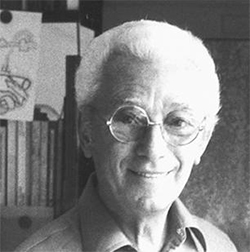
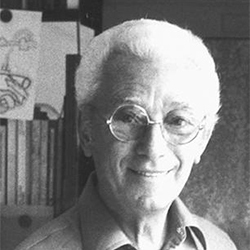
fix Bruno Munari author picture size

diff --git a/docs/assets/css/styles.css b/docs/assets/css/styles.css
@@ -1,3 +1,3 @@
 @charset "UTF-8";
 
-/*! normalize.css v6.0.0 | MIT License | github.com/necolas/normalize.css */html{line-height:1.15;-ms-text-size-adjust:100%;-webkit-text-size-adjust:100%}article,aside,footer,header,nav,section{display:block}h1{font-size:2em;margin:.67em 0}figcaption,figure,main{display:block}figure{margin:1em 40px}hr{-webkit-box-sizing:content-box;box-sizing:content-box;height:0;overflow:visible}pre{font-family:monospace,monospace;font-size:1em}a{background-color:transparent;-webkit-text-decoration-skip:objects}abbr[title]{border-bottom:none;text-decoration:underline;text-decoration:underline dotted}b,strong{font-weight:inherit;font-weight:bolder}code,kbd,samp{font-family:monospace,monospace;font-size:1em}dfn{font-style:italic}mark{background-color:#ff0;color:#000}small{font-size:80%}sub,sup{font-size:75%;line-height:0;position:relative;vertical-align:baseline}sub{bottom:-.25em}sup{top:-.5em}audio,video{display:inline-block}audio:not([controls]){display:none;height:0}img{border-style:none}svg:not(:root){overflow:hidden}button,input,optgroup,select,textarea{margin:0}button,input{overflow:visible}button,select{text-transform:none}[type=reset],[type=submit],button,html [type=button]{-webkit-appearance:button}[type=button]::-moz-focus-inner,[type=reset]::-moz-focus-inner,[type=submit]::-moz-focus-inner,button::-moz-focus-inner{border-style:none;padding:0}[type=button]:-moz-focusring,[type=reset]:-moz-focusring,[type=submit]:-moz-focusring,button:-moz-focusring{outline:1px dotted ButtonText}legend{-webkit-box-sizing:border-box;box-sizing:border-box;color:inherit;display:table;max-width:100%;padding:0;white-space:normal}progress{display:inline-block;vertical-align:baseline}textarea{overflow:auto}[type=checkbox],[type=radio]{-webkit-box-sizing:border-box;box-sizing:border-box;padding:0}[type=number]::-webkit-inner-spin-button,[type=number]::-webkit-outer-spin-button{height:auto}[type=search]{-webkit-appearance:textfield;outline-offset:-2px}[type=search]::-webkit-search-cancel-button,[type=search]::-webkit-search-decoration{-webkit-appearance:none}::-webkit-file-upload-button{-webkit-appearance:button;font:inherit}details,menu{display:block}summary{display:list-item}canvas{display:inline-block}[hidden],template{display:none}html{font-size:75%}body{background-color:#e1e0dd;color:#444;font-size:1.15rem;font-weight:200;line-height:1.5;margin:0}body,h1,h2,h3,h4{font-family:Montserrat,Helvetica Neue,Segoe UI,Verdana,sans-serif}h1,h2,h3,h4{color:#4d4d4d;font-weight:300;line-height:1.25}h1{margin:0}h1,h2{font-size:2.04342rem}h3{font-size:1.53295rem;margin:0;padding:0}a{color:#f45844;-webkit-transition:color .35s cubic-bezier(.25,.46,.45,.94);transition:color .35s cubic-bezier(.25,.46,.45,.94)}a:hover{color:#b74233}img{display:inline-block}p{margin:0}p+p{margin-top:.75rem}strong{font-weight:300}h1 strong,h2 strong,h3 strong,h4 strong{font-weight:400}.ta-center{text-align:center}.fw-bold{font-weight:300}h1.fw-bold,h2.fw-bold,h3.fw-bold,h4.fw-bold{font-weight:400}.fs-small{font-size:.86272rem}.fs-large{font-size:1.53295rem}.text-brand{color:#f45844}.bg-secondary{background-color:#fff}.uppercase{text-transform:uppercase;letter-spacing:.05rem}.margin-top-1{margin-top:.75rem}.margin-top-2{margin-top:1.5rem}.margin-top-3{margin-top:2.25rem}.margin-top-4{margin-top:3rem}.margin-top-5{margin-top:3.75rem}.margin-top-6{margin-top:4.5rem}.margin-bottom-1{margin-bottom:.75rem}.margin-bottom-2{margin-bottom:1.5rem}.margin-bottom-3{margin-bottom:2.25rem}.margin-bottom-4{margin-bottom:3rem}.margin-bottom-5{margin-bottom:3.75rem}.margin-bottom-6{margin-bottom:4.5rem}.visually-hidden{margin:-1px;padding:0;width:1px;height:1px;overflow:hidden;clip:rect(0 0 0 0);clip:rect(0,0,0,0);position:absolute}.wrap{max-width:56rem}.wrap,.wrap-small{padding:0 .375rem;margin-left:auto;margin-right:auto}.wrap-small{max-width:36rem}.wrap-large{padding:0 .375rem;max-width:64rem;margin-left:auto;margin-right:auto}.slick-slider{-webkit-box-sizing:border-box;box-sizing:border-box;-webkit-touch-callout:none;-webkit-user-select:none;-moz-user-select:none;-ms-user-select:none;user-select:none;-ms-touch-action:pan-y;touch-action:pan-y;-webkit-tap-highlight-color:transparent}.slick-list,.slick-slider{position:relative;display:block}.slick-list{overflow:hidden;margin:0;padding:0}.slick-list:focus{outline:none}.slick-list.dragging{cursor:pointer;cursor:hand}.slick-slider .slick-list,.slick-slider .slick-track{-webkit-transform:translateZ(0);-ms-transform:translateZ(0);transform:translateZ(0)}.slick-track{position:relative;left:0;top:0;display:block}.slick-track:after,.slick-track:before{content:"";display:table}.slick-track:after{clear:both}.slick-loading .slick-track{visibility:hidden}.slick-slide{float:left;height:100%;min-height:1px;display:none}[dir=rtl] .slick-slide{float:right}.slick-slide img{display:block}.slick-slide.slick-loading img{display:none}.slick-slide.dragging img{pointer-events:none}.slick-initialized .slick-slide{display:block}.slick-loading .slick-slide{visibility:hidden}.slick-vertical .slick-slide{display:block;height:auto;border:1px solid transparent}.slick-arrow.slick-hidden{display:none}.slick-loading .slick-list{background:#fff url(../img/ajax-loader.gif) 50% no-repeat}@font-face{font-family:slick;src:url(fonts/slick.eot);src:url(fonts/slick.eot?#iefix) format("embedded-opentype"),url(fonts/slick.woff) format("woff"),url(fonts/slick.ttf) format("truetype"),url(fonts/slick.svg#slick) format("svg");font-weight:400;font-style:normal}.slick-next,.slick-prev{position:absolute;display:block;height:20px;width:20px;line-height:0;font-size:0;cursor:pointer;top:50%;-webkit-transform:translateY(-50%);-ms-transform:translateY(-50%);transform:translateY(-50%);padding:0;border:none}.slick-next,.slick-next:focus,.slick-next:hover,.slick-prev,.slick-prev:focus,.slick-prev:hover{background:transparent;color:transparent;outline:none}.slick-next:focus:before,.slick-next:hover:before,.slick-prev:focus:before,.slick-prev:hover:before{opacity:1}.slick-next.slick-disabled:before,.slick-prev.slick-disabled:before{opacity:.25}.slick-next:before,.slick-prev:before{font-family:slick;font-size:20px;line-height:1;color:#fff;opacity:.75;-webkit-font-smoothing:antialiased;-moz-osx-font-smoothing:grayscale}.slick-prev{left:-25px}[dir=rtl] .slick-prev{left:auto;right:-25px}.slick-prev:before{content:"←"}[dir=rtl] .slick-prev:before{content:"→"}.slick-next{right:-25px}[dir=rtl] .slick-next{left:-25px;right:auto}.slick-next:before{content:"→"}[dir=rtl] .slick-next:before{content:"←"}.slick-dotted.slick-slider{margin-bottom:30px}.slick-dots{position:absolute;bottom:-25px;list-style:none;display:block;text-align:center;padding:0;margin:0;width:100%}.slick-dots li{position:relative;display:inline-block;margin:0 5px;padding:0}.slick-dots li,.slick-dots li button{height:20px;width:20px;cursor:pointer}.slick-dots li button{border:0;background:transparent;display:block;outline:none;line-height:0;font-size:0;color:transparent;padding:5px}.slick-dots li button:focus,.slick-dots li button:hover{outline:none}.slick-dots li button:focus:before,.slick-dots li button:hover:before{opacity:1}.slick-dots li button:before{position:absolute;top:0;left:0;content:"•";width:20px;height:20px;font-family:slick;font-size:6px;line-height:20px;text-align:center;color:#000;opacity:.25;-webkit-font-smoothing:antialiased;-moz-osx-font-smoothing:grayscale}.slick-dots li.slick-active button:before{color:#000;opacity:.75}.header{text-align:center;padding:3rem .75rem}.header .intro{margin-top:.75rem}.logo svg{width:128px;vertical-align:middle}.logo svg path{stroke:#f45844;stroke-width:6}.intro .intro__title{font-weight:400}.intro .intro__headline{font-size:1.53295rem;margin-top:.75rem}.slider-author:after{content:"";position:absolute;top:0;bottom:0;left:0;right:0;pointer-events:none;background-image:-webkit-gradient(linear,right top,left top,color-stop(85%,hsla(45,6%,87%,0)),to(#e1e0dd)),-webkit-gradient(linear,left top,right top,color-stop(85%,hsla(45,6%,87%,0)),to(#e1e0dd));background-image:-webkit-linear-gradient(right,hsla(45,6%,87%,0) 85%,#e1e0dd),-webkit-linear-gradient(left,hsla(45,6%,87%,0) 85%,#e1e0dd);background-image:linear-gradient(270deg,hsla(45,6%,87%,0) 85%,#e1e0dd),linear-gradient(90deg,hsla(45,6%,87%,0) 85%,#e1e0dd)}.slider-author__cell{width:92px}.slider-author__cell:focus{outline:0}.author{background-color:#ddd;cursor:pointer;opacity:.35;text-align:center;-webkit-transition:all .75s cubic-bezier(.25,.46,.45,.94);transition:all .75s cubic-bezier(.25,.46,.45,.94)}.author__image img{margin:0;max-width:100%;width:1005;vertical-align:middle}.slick-current .author{background-color:#fff;opacity:1;-webkit-transition:all .75s cubic-bezier(.25,.46,.45,.94);transition:all .75s cubic-bezier(.25,.46,.45,.94)}.slider-quote__cell{width:100%;height:100%;margin:0;padding:0}.slider-quote__cell:focus{outline:0}.quote{text-align:center;padding:3rem .1875rem}.quote__author{font-size:2.04342rem;margin-bottom:0}.quote__text{line-height:1.75;font-style:italic;text-align:center;font-size:1.53295rem;margin-top:1.5rem}.quote__text:before{content:"\201c"}.quote__text:after{content:"\201d"}.quote__book a{color:#999;text-decoration:none}.manifesto .card{counter-increment:a;margin-bottom:1.125rem;-webkit-transition:all .55s ease-in;transition:all .55s ease-in}.manifesto .card .card__header{text-align:left}.manifesto .card .card__header,.manifesto .card .card__header:before{-webkit-transition:all .55s cubic-bezier(.25,.46,.45,.94);transition:all .55s cubic-bezier(.25,.46,.45,.94)}.manifesto .card .card__header:before{content:counter(a);text-align:center;font-size:2.04342rem;color:#b3b3b3;margin-right:.75rem}.manifesto .card .card__title{color:#737373;-webkit-transition:all .55s cubic-bezier(.25,.46,.45,.94);transition:all .55s cubic-bezier(.25,.46,.45,.94)}.manifesto .card__header{-webkit-box-align:center;-webkit-align-items:center;-ms-flex-align:center;align-items:center;display:-webkit-box;display:-webkit-flex;display:-ms-flexbox;display:flex;-webkit-flex-wrap:wrap;-ms-flex-wrap:wrap;flex-wrap:wrap}.manifesto .card__header:before{width:8.33333%}.manifesto .card__header .card__title{width:83.33333%}.manifesto .card__header .card__toggle{width:8.33333%}.footer{padding:3rem 1.5rem}@media (min-width:768px){html{font-size:85%}.logo svg{width:172px}}@media (min-width:1024px){html{font-size:100%}.slider-author__cell{width:192px}}
+/*! normalize.css v6.0.0 | MIT License | github.com/necolas/normalize.css */html{line-height:1.15;-ms-text-size-adjust:100%;-webkit-text-size-adjust:100%}article,aside,footer,header,nav,section{display:block}h1{font-size:2em;margin:.67em 0}figcaption,figure,main{display:block}figure{margin:1em 40px}hr{-webkit-box-sizing:content-box;box-sizing:content-box;height:0;overflow:visible}pre{font-family:monospace,monospace;font-size:1em}a{background-color:transparent;-webkit-text-decoration-skip:objects}abbr[title]{border-bottom:none;text-decoration:underline;text-decoration:underline dotted}b,strong{font-weight:inherit;font-weight:bolder}code,kbd,samp{font-family:monospace,monospace;font-size:1em}dfn{font-style:italic}mark{background-color:#ff0;color:#000}small{font-size:80%}sub,sup{font-size:75%;line-height:0;position:relative;vertical-align:baseline}sub{bottom:-.25em}sup{top:-.5em}audio,video{display:inline-block}audio:not([controls]){display:none;height:0}img{border-style:none}svg:not(:root){overflow:hidden}button,input,optgroup,select,textarea{margin:0}button,input{overflow:visible}button,select{text-transform:none}[type=reset],[type=submit],button,html [type=button]{-webkit-appearance:button}[type=button]::-moz-focus-inner,[type=reset]::-moz-focus-inner,[type=submit]::-moz-focus-inner,button::-moz-focus-inner{border-style:none;padding:0}[type=button]:-moz-focusring,[type=reset]:-moz-focusring,[type=submit]:-moz-focusring,button:-moz-focusring{outline:1px dotted ButtonText}legend{-webkit-box-sizing:border-box;box-sizing:border-box;color:inherit;display:table;max-width:100%;padding:0;white-space:normal}progress{display:inline-block;vertical-align:baseline}textarea{overflow:auto}[type=checkbox],[type=radio]{-webkit-box-sizing:border-box;box-sizing:border-box;padding:0}[type=number]::-webkit-inner-spin-button,[type=number]::-webkit-outer-spin-button{height:auto}[type=search]{-webkit-appearance:textfield;outline-offset:-2px}[type=search]::-webkit-search-cancel-button,[type=search]::-webkit-search-decoration{-webkit-appearance:none}::-webkit-file-upload-button{-webkit-appearance:button;font:inherit}details,menu{display:block}summary{display:list-item}canvas{display:inline-block}[hidden],template{display:none}html{font-size:75%}body{background-color:#e1e0dd;color:#444;font-size:1.15rem;font-weight:200;line-height:1.5;margin:0}body,h1,h2,h3,h4{font-family:Montserrat,Helvetica Neue,Segoe UI,Verdana,sans-serif}h1,h2,h3,h4{color:#4d4d4d;font-weight:300;line-height:1.25}h1{margin:0}h1,h2{font-size:2.04342rem}h3{font-size:1.53295rem;margin:0;padding:0}a{color:#f45844;-webkit-transition:color .35s cubic-bezier(.25,.46,.45,.94);transition:color .35s cubic-bezier(.25,.46,.45,.94)}a:hover{color:#b74233}img{display:inline-block}p{margin:0}p+p{margin-top:.75rem}strong{font-weight:300}h1 strong,h2 strong,h3 strong,h4 strong{font-weight:400}.ta-center{text-align:center}.fw-bold{font-weight:300}h1.fw-bold,h2.fw-bold,h3.fw-bold,h4.fw-bold{font-weight:400}.fs-small{font-size:.86272rem}.fs-large{font-size:1.53295rem}.text-brand{color:#f45844}.bg-secondary{background-color:#fff}.uppercase{text-transform:uppercase;letter-spacing:.05rem}.margin-top-1{margin-top:.75rem}.margin-top-2{margin-top:1.5rem}.margin-top-3{margin-top:2.25rem}.margin-top-4{margin-top:3rem}.margin-top-5{margin-top:3.75rem}.margin-top-6{margin-top:4.5rem}.margin-bottom-1{margin-bottom:.75rem}.margin-bottom-2{margin-bottom:1.5rem}.margin-bottom-3{margin-bottom:2.25rem}.margin-bottom-4{margin-bottom:3rem}.margin-bottom-5{margin-bottom:3.75rem}.margin-bottom-6{margin-bottom:4.5rem}.visually-hidden{margin:-1px;padding:0;width:1px;height:1px;overflow:hidden;clip:rect(0 0 0 0);clip:rect(0,0,0,0);position:absolute}.wrap{max-width:56rem}.wrap,.wrap-small{padding:0 .375rem;margin-left:auto;margin-right:auto}.wrap-small{max-width:36rem}.wrap-large{padding:0 .375rem;max-width:64rem;margin-left:auto;margin-right:auto}.slick-slider{-webkit-box-sizing:border-box;box-sizing:border-box;-webkit-touch-callout:none;-webkit-user-select:none;-moz-user-select:none;-ms-user-select:none;user-select:none;-ms-touch-action:pan-y;touch-action:pan-y;-webkit-tap-highlight-color:transparent}.slick-list,.slick-slider{position:relative;display:block}.slick-list{overflow:hidden;margin:0;padding:0}.slick-list:focus{outline:none}.slick-list.dragging{cursor:pointer;cursor:hand}.slick-slider .slick-list,.slick-slider .slick-track{-webkit-transform:translateZ(0);-ms-transform:translateZ(0);transform:translateZ(0)}.slick-track{position:relative;left:0;top:0;display:block}.slick-track:after,.slick-track:before{content:"";display:table}.slick-track:after{clear:both}.slick-loading .slick-track{visibility:hidden}.slick-slide{float:left;height:100%;min-height:1px;display:none}[dir=rtl] .slick-slide{float:right}.slick-slide img{display:block}.slick-slide.slick-loading img{display:none}.slick-slide.dragging img{pointer-events:none}.slick-initialized .slick-slide{display:block}.slick-loading .slick-slide{visibility:hidden}.slick-vertical .slick-slide{display:block;height:auto;border:1px solid transparent}.slick-arrow.slick-hidden{display:none}.slick-loading .slick-list{background:#fff url(../img/ajax-loader.gif) 50% no-repeat}@font-face{font-family:slick;src:url(fonts/slick.eot);src:url(fonts/slick.eot?#iefix) format("embedded-opentype"),url(fonts/slick.woff) format("woff"),url(fonts/slick.ttf) format("truetype"),url(fonts/slick.svg#slick) format("svg");font-weight:400;font-style:normal}.slick-next,.slick-prev{position:absolute;display:block;height:20px;width:20px;line-height:0;font-size:0;cursor:pointer;top:50%;-webkit-transform:translateY(-50%);-ms-transform:translateY(-50%);transform:translateY(-50%);padding:0;border:none}.slick-next,.slick-next:focus,.slick-next:hover,.slick-prev,.slick-prev:focus,.slick-prev:hover{background:transparent;color:transparent;outline:none}.slick-next:focus:before,.slick-next:hover:before,.slick-prev:focus:before,.slick-prev:hover:before{opacity:1}.slick-next.slick-disabled:before,.slick-prev.slick-disabled:before{opacity:.25}.slick-next:before,.slick-prev:before{font-family:slick;font-size:20px;line-height:1;color:#fff;opacity:.75;-webkit-font-smoothing:antialiased;-moz-osx-font-smoothing:grayscale}.slick-prev{left:-25px}[dir=rtl] .slick-prev{left:auto;right:-25px}.slick-prev:before{content:"←"}[dir=rtl] .slick-prev:before{content:"→"}.slick-next{right:-25px}[dir=rtl] .slick-next{left:-25px;right:auto}.slick-next:before{content:"→"}[dir=rtl] .slick-next:before{content:"←"}.slick-dotted.slick-slider{margin-bottom:30px}.slick-dots{position:absolute;bottom:-25px;list-style:none;display:block;text-align:center;padding:0;margin:0;width:100%}.slick-dots li{position:relative;display:inline-block;margin:0 5px;padding:0}.slick-dots li,.slick-dots li button{height:20px;width:20px;cursor:pointer}.slick-dots li button{border:0;background:transparent;display:block;outline:none;line-height:0;font-size:0;color:transparent;padding:5px}.slick-dots li button:focus,.slick-dots li button:hover{outline:none}.slick-dots li button:focus:before,.slick-dots li button:hover:before{opacity:1}.slick-dots li button:before{position:absolute;top:0;left:0;content:"•";width:20px;height:20px;font-family:slick;font-size:6px;line-height:20px;text-align:center;color:#000;opacity:.25;-webkit-font-smoothing:antialiased;-moz-osx-font-smoothing:grayscale}.slick-dots li.slick-active button:before{color:#000;opacity:.75}.header{text-align:center;padding:3rem .75rem}.header .intro{margin-top:.75rem}.logo svg{width:128px;vertical-align:middle}.logo svg path{stroke:#f45844;stroke-width:6}.intro .intro__title{font-weight:400}.intro .intro__headline{font-size:1.53295rem;margin-top:.75rem}.slider-author:after{content:"";position:absolute;top:0;bottom:0;left:0;right:0;pointer-events:none;background-image:-webkit-gradient(linear,right top,left top,color-stop(85%,hsla(45,6%,87%,0)),to(#e1e0dd)),-webkit-gradient(linear,left top,right top,color-stop(85%,hsla(45,6%,87%,0)),to(#e1e0dd));background-image:-webkit-linear-gradient(right,hsla(45,6%,87%,0) 85%,#e1e0dd),-webkit-linear-gradient(left,hsla(45,6%,87%,0) 85%,#e1e0dd);background-image:linear-gradient(270deg,hsla(45,6%,87%,0) 85%,#e1e0dd),linear-gradient(90deg,hsla(45,6%,87%,0) 85%,#e1e0dd)}.slider-author__cell{width:92px}.slider-author__cell:focus{outline:0}.author{background-color:#ddd;cursor:pointer;opacity:.35;text-align:center;-webkit-transition:all .75s cubic-bezier(.25,.46,.45,.94);transition:all .75s cubic-bezier(.25,.46,.45,.94)}.author__image img{margin:0;max-width:100%;width:100%;vertical-align:middle}.slick-current .author{background-color:#fff;opacity:1;-webkit-transition:all .75s cubic-bezier(.25,.46,.45,.94);transition:all .75s cubic-bezier(.25,.46,.45,.94)}.slider-quote__cell{width:100%;height:100%;margin:0;padding:0}.slider-quote__cell:focus{outline:0}.quote{text-align:center;padding:3rem .1875rem}.quote__author{font-size:2.04342rem;margin-bottom:0}.quote__text{line-height:1.75;font-style:italic;text-align:center;font-size:1.53295rem;margin-top:1.5rem}.quote__text:before{content:"\201c"}.quote__text:after{content:"\201d"}.quote__book a{color:#999;text-decoration:none}.manifesto .card{counter-increment:a;margin-bottom:1.125rem;-webkit-transition:all .55s ease-in;transition:all .55s ease-in}.manifesto .card .card__header{text-align:left}.manifesto .card .card__header,.manifesto .card .card__header:before{-webkit-transition:all .55s cubic-bezier(.25,.46,.45,.94);transition:all .55s cubic-bezier(.25,.46,.45,.94)}.manifesto .card .card__header:before{content:counter(a);text-align:center;font-size:2.04342rem;color:#b3b3b3;margin-right:.75rem}.manifesto .card .card__title{color:#737373;-webkit-transition:all .55s cubic-bezier(.25,.46,.45,.94);transition:all .55s cubic-bezier(.25,.46,.45,.94)}.manifesto .card__header{-webkit-box-align:center;-webkit-align-items:center;-ms-flex-align:center;align-items:center;display:-webkit-box;display:-webkit-flex;display:-ms-flexbox;display:flex;-webkit-flex-wrap:wrap;-ms-flex-wrap:wrap;flex-wrap:wrap}.manifesto .card__header:before{width:8.33333%}.manifesto .card__header .card__title{width:83.33333%}.manifesto .card__header .card__toggle{width:8.33333%}.footer{padding:3rem 1.5rem}@media (min-width:768px){html{font-size:85%}.logo svg{width:172px}}@media (min-width:1024px){html{font-size:100%}.slider-author__cell{width:192px}}

diff --git a/src/scss/components/_authors.scss b/src/scss/components/_authors.scss
@@ -53,7 +53,7 @@ $author-width-large: 192px;
 .author__image img {
   margin: 0;
   max-width: 100%;
-  width: 1005;
+  width: 100%;
   vertical-align: middle;
 }
 
